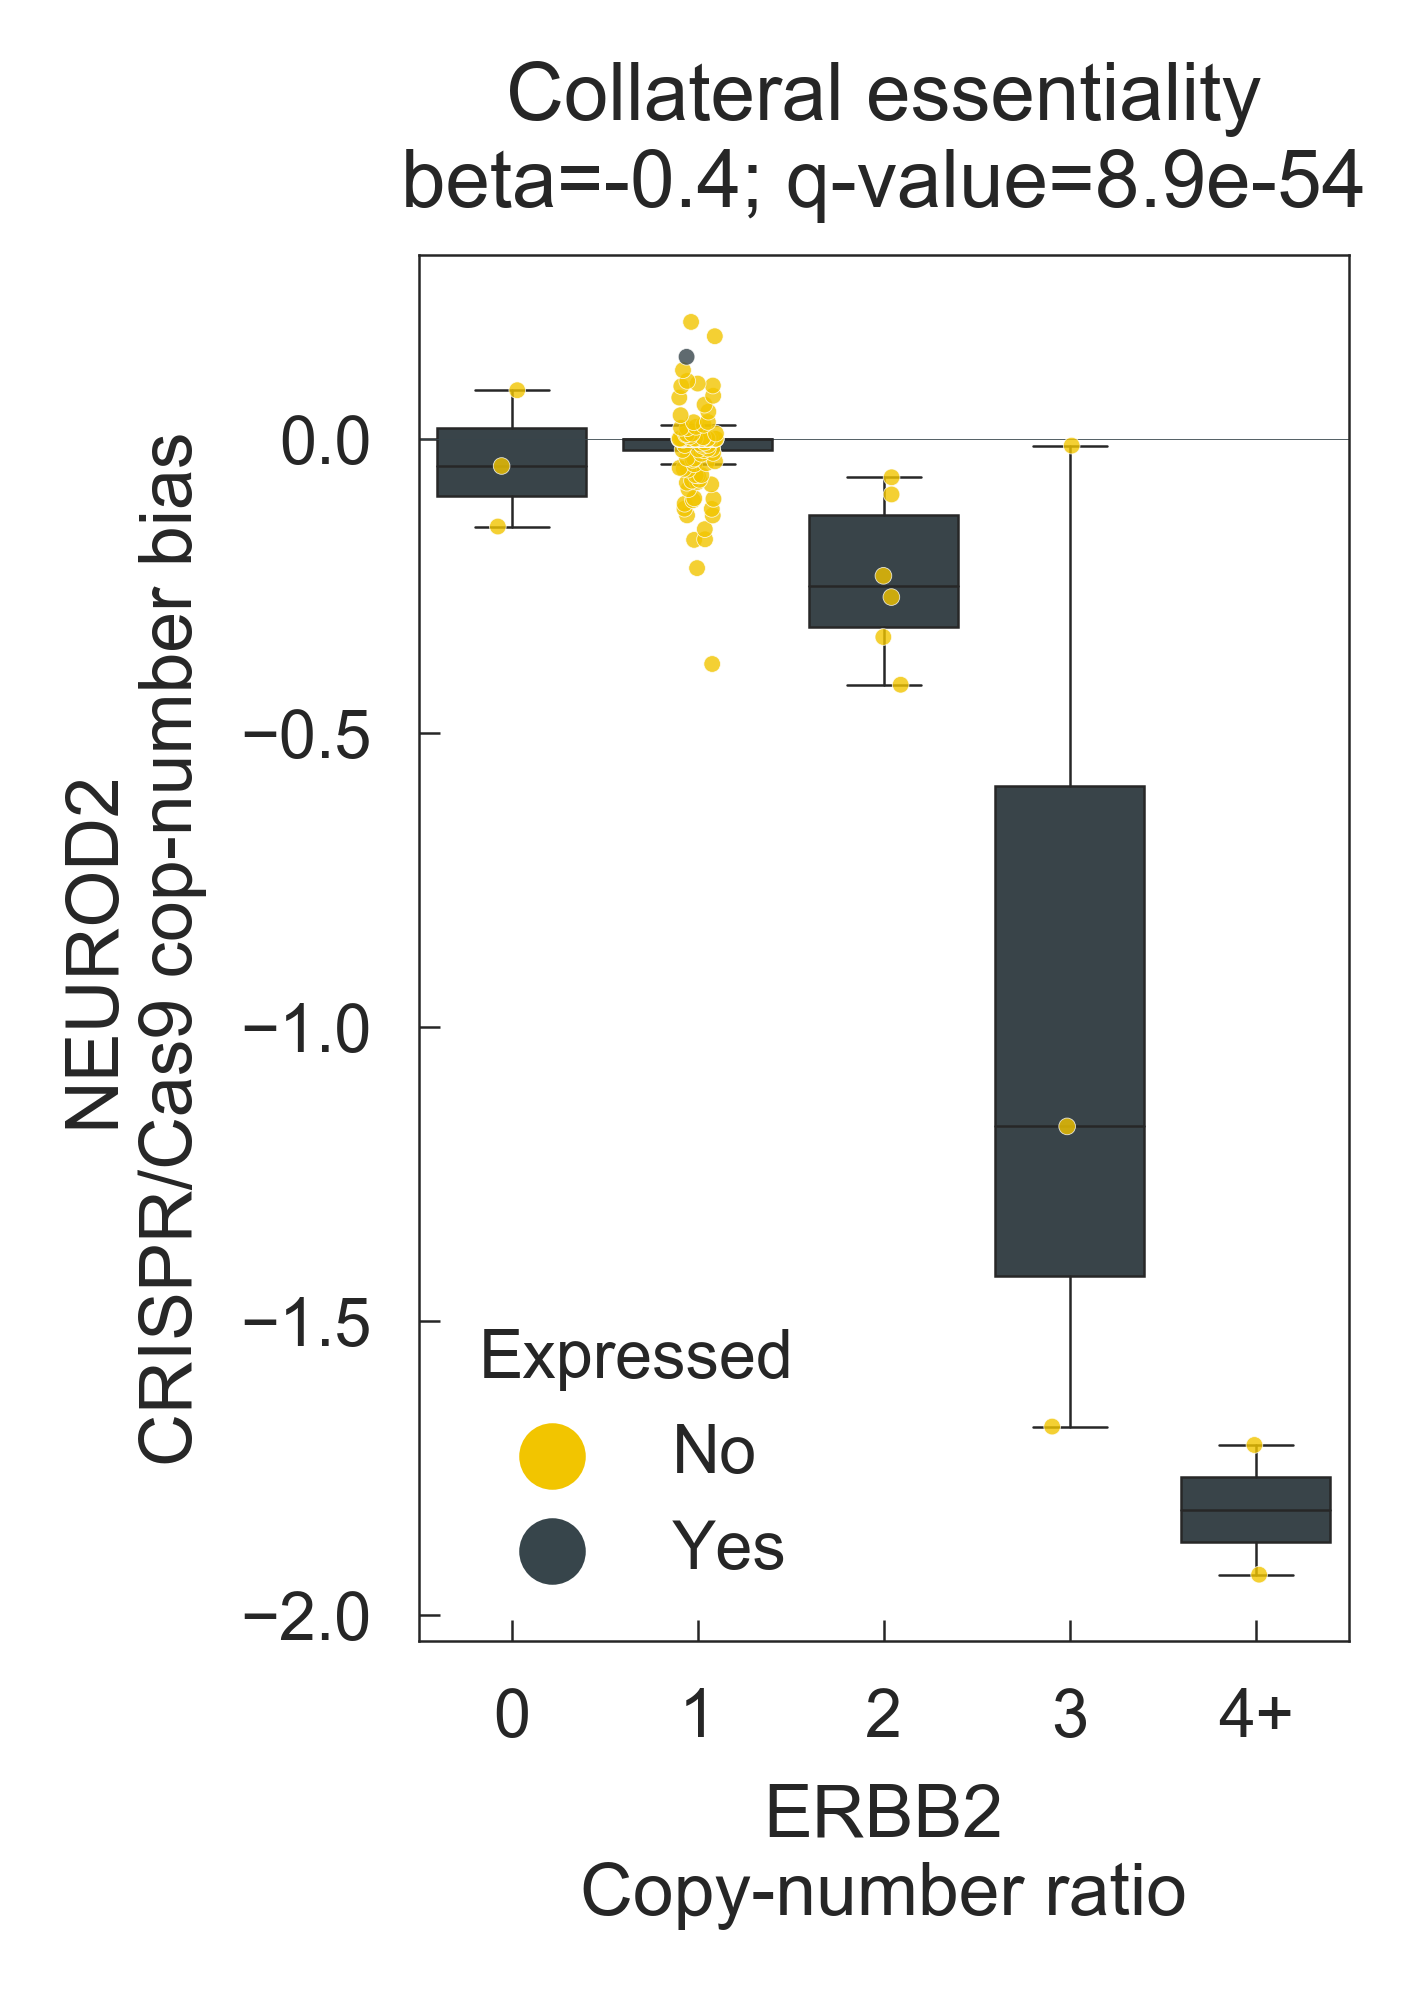
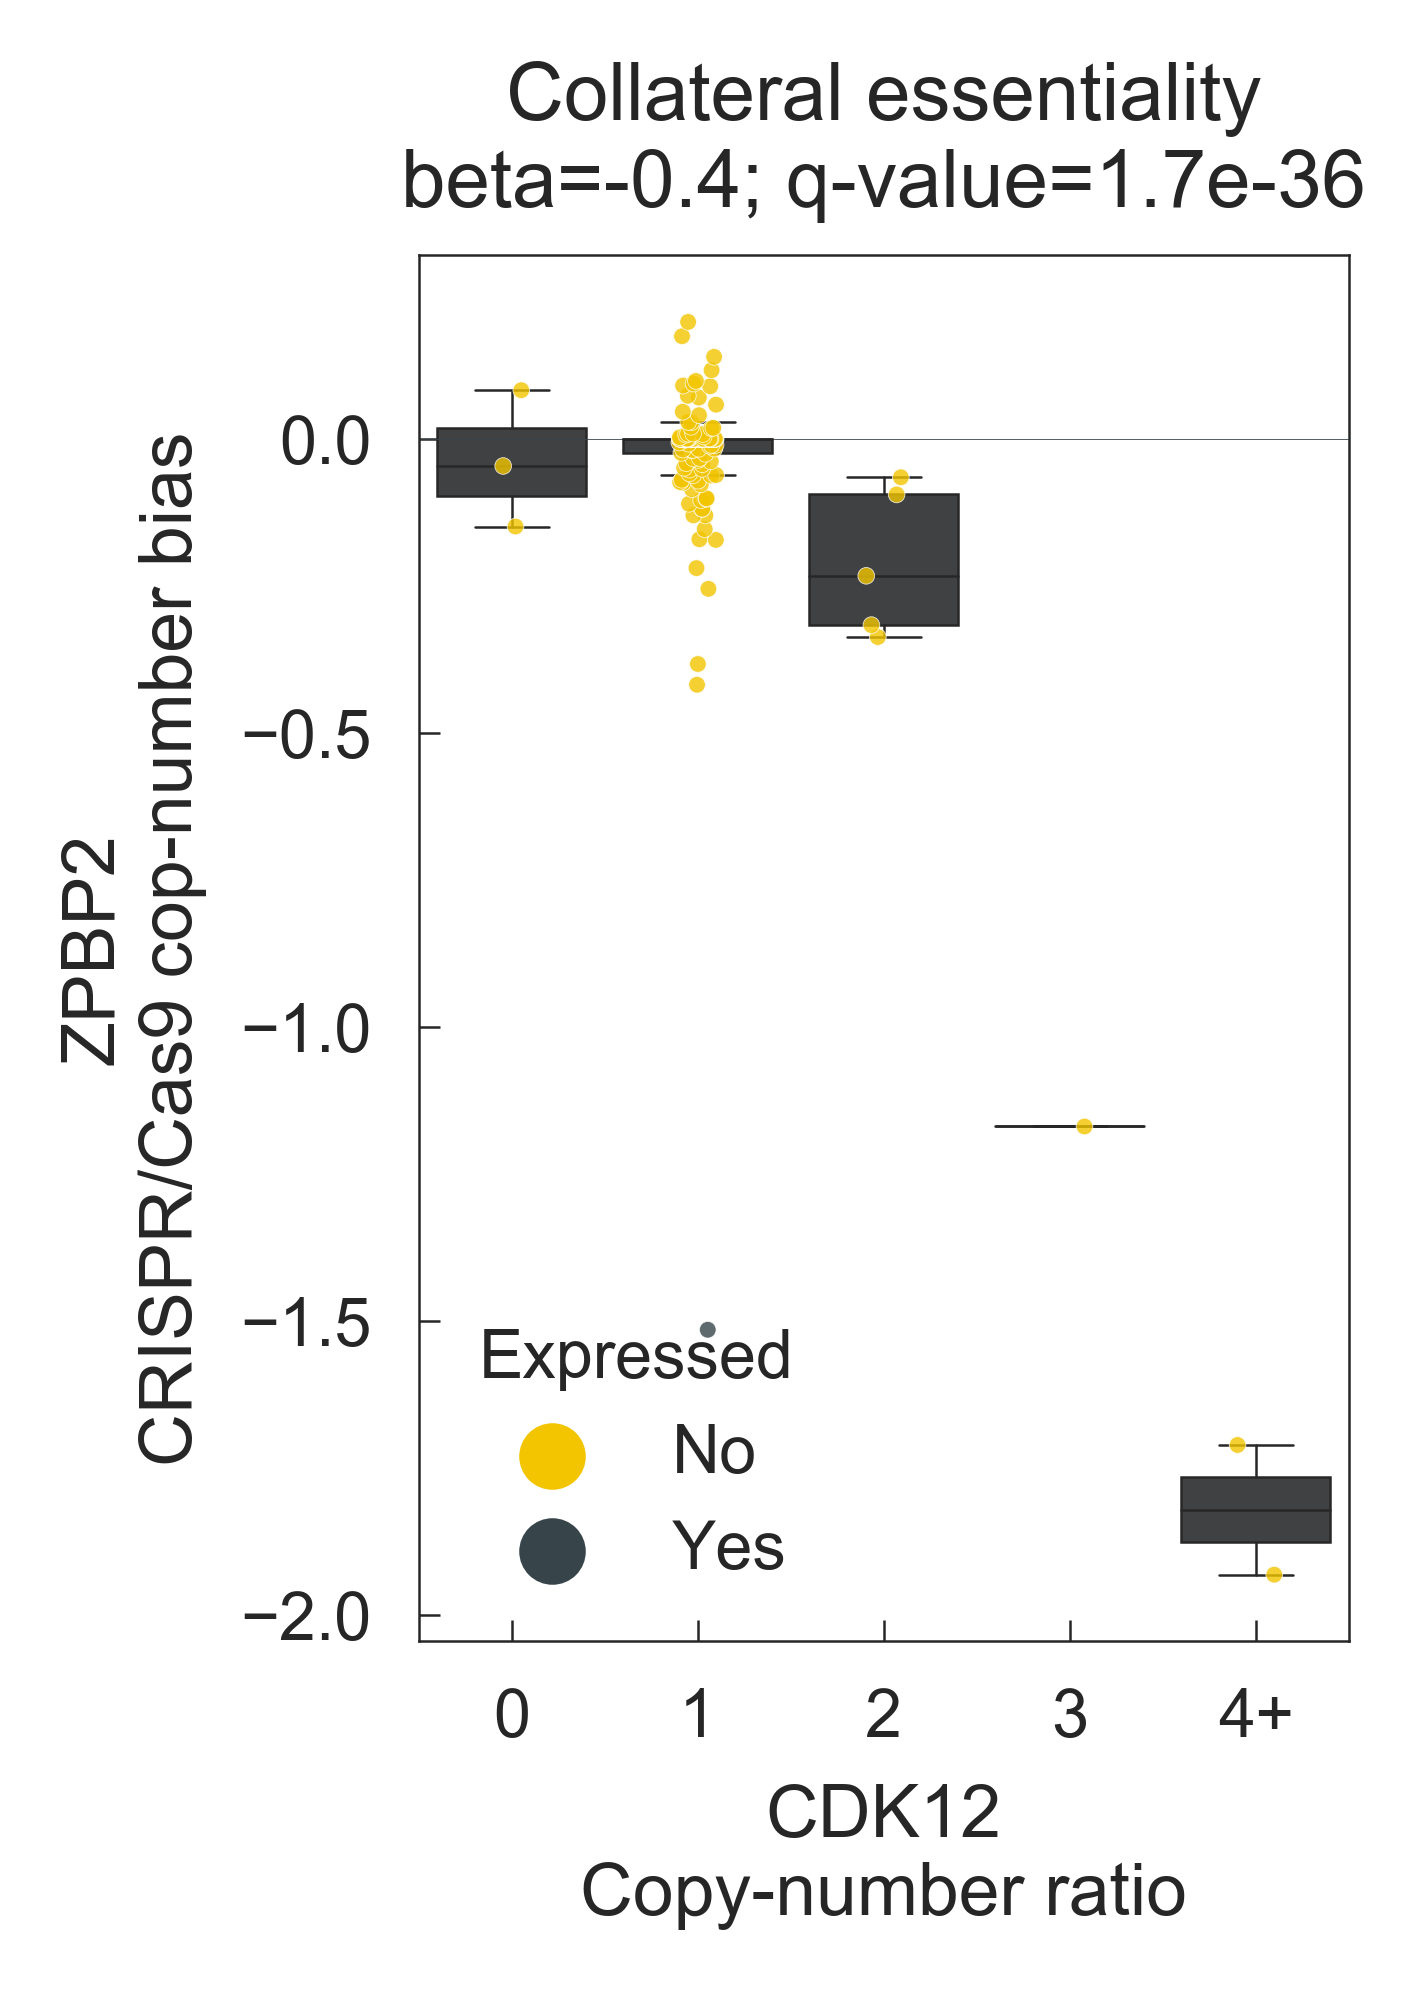
Systematic collateral essentialities focused on genes with high copy-number ratio and not expressed

diff --git a/scripts/crispy/collateral_essentiality.py b/scripts/crispy/collateral_essentiality.py
@@ -89,12 +89,15 @@ lmm_df = lmm_df[lmm_df['gene_crispr'] != lmm_df['gene_cnvabs']]
 lmm_df = lmm_df.assign(chr_crispr=ginfo.loc[lmm_df['gene_crispr'], 'chr'].values)
 lmm_df = lmm_df.assign(chr_cnvabs=ginfo.loc[lmm_df['gene_cnvabs'], 'chr'].values)
 
+ratio_nexp_ov = (cnv_ratios.loc[xs.columns, samples] > 1.5).astype(int).dot((nexp.loc[ys.columns, samples] == 0).astype(int).T).unstack()
+lmm_df = lmm_df.loc[(ratio_nexp_ov.loc[[(y, x) for y, x in lmm_df[['gene_crispr', 'gene_cnvabs']].values]] == 0).values]
+
 lmm_df = lmm_df.assign(lm_qvalue=qvalues(lmm_df['lm_pvalue'].values)).sort_values('lm_qvalue')
 print(lmm_df)
 
 
 # - Plot
-idx = 72246
+idx = 120950
 y_feat, x_feat = lmm_df.loc[idx, 'gene_crispr'], lmm_df.loc[idx, 'gene_cnvabs']
 
 plot_df = pd.concat([
@@ -111,7 +114,7 @@ order = natsorted(set(plot_df['ratio_bin']))
 pal = {'No': bipal_dbgd[1], 'Yes': bipal_dbgd[0]}
 
 # Boxplot
-sns.boxplot('ratio_bin', 'crispy', data=plot_df, order=order, color=bipal_dbgd[0], sym='', linewidth=.3)
+sns.boxplot('ratio_bin', 'crispy', data=plot_df, order=order, color=bipal_dbgd[0], sym='', linewidth=.3, saturation=.1)
 sns.stripplot('ratio_bin', 'crispy', 'expressed', data=plot_df, order=order, palette=pal, edgecolor='white', linewidth=.1, size=2, jitter=.1, alpha=.8)
 
 plt.axhline(0, ls='-', lw=.1, c=bipal_dbgd[0])
@@ -120,7 +123,7 @@ plt.ylabel('%s\nCRISPR/Cas9 cop-number bias' % y_feat)
 plt.xlabel('%s\nCopy-number ratio' % x_feat)
 plt.title('Collateral essentiality\nbeta=%.1f; q-value=%.1e' % (lmm_df.loc[idx, 'lm_beta'], lmm_df.loc[idx, 'lm_qvalue']))
 
-legend = plt.legend(title='Expressed', prop={'size': 8})
+legend = plt.legend(title='Expressed', prop={'size': 8}, loc=3)
 legend.get_title().set_fontsize('8')
 
 plt.gcf().set_size_inches(2, 3)
